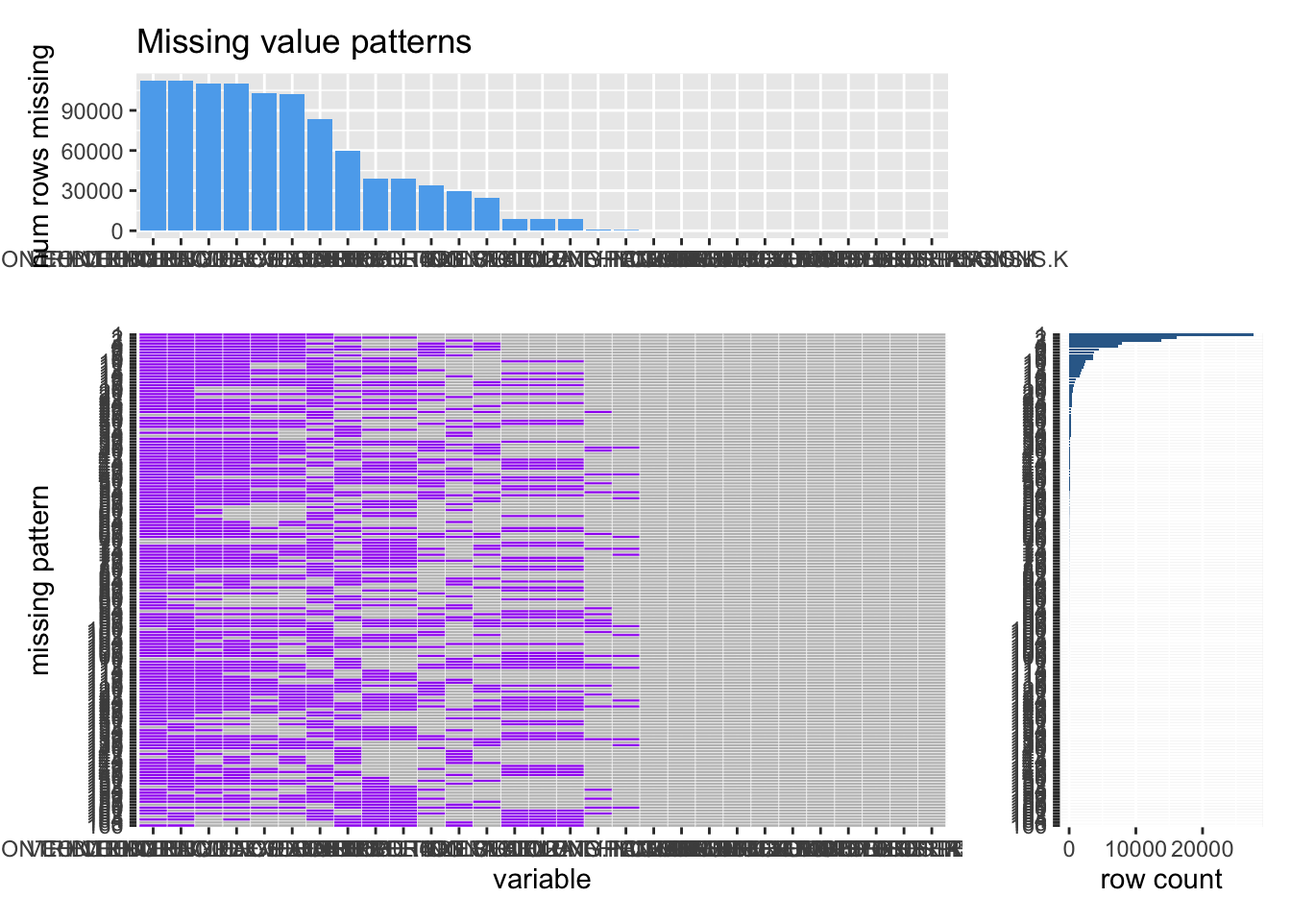
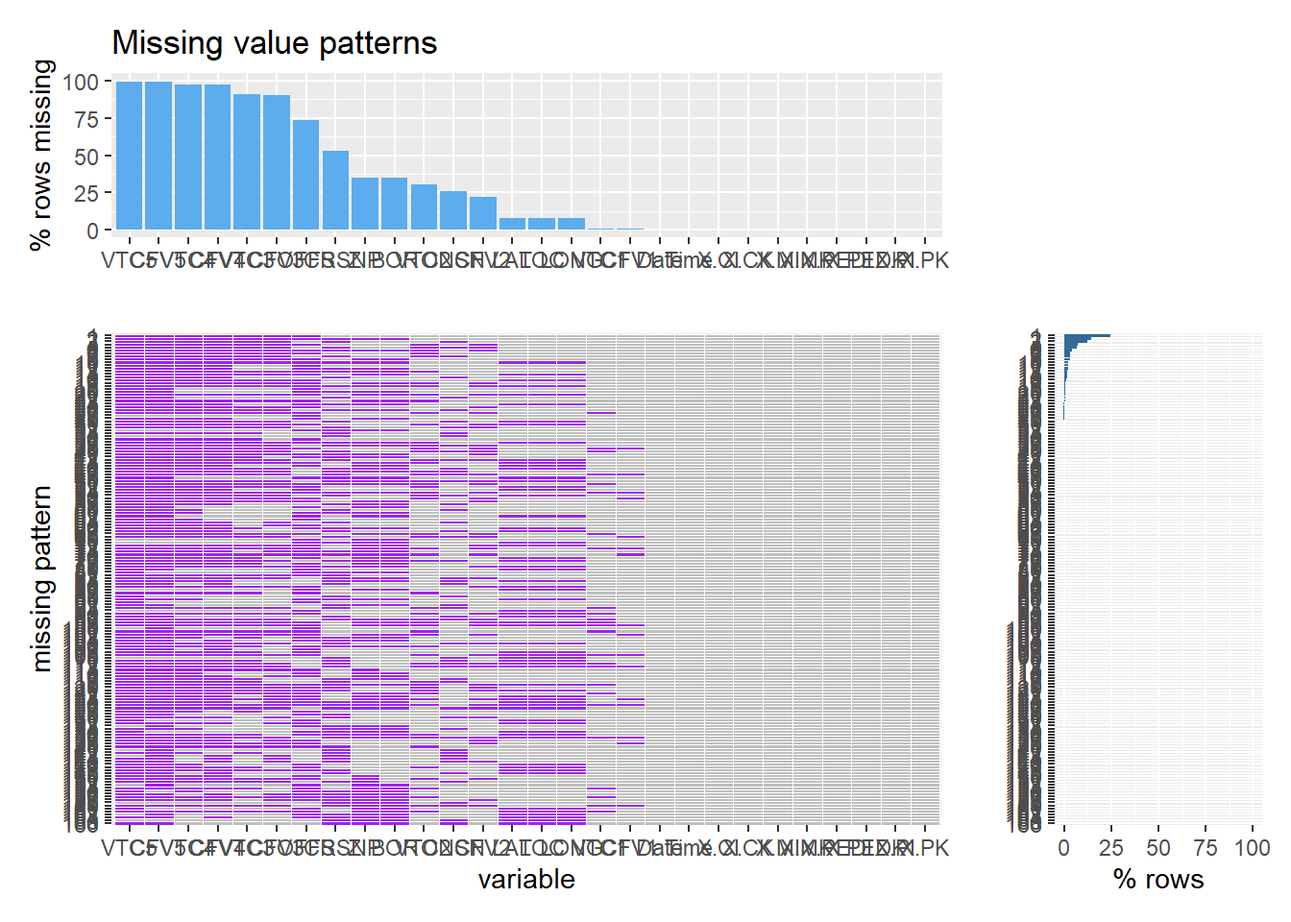
missing value chapter and bookdown update

diff --git a/docs/missing-values.html b/docs/missing-values.html
@@ -24,7 +24,7 @@
 <meta name="author" content="Maxwell Zhou, Xin Ye, and Kiranmai Vasireddy" />
 
 
-<meta name="date" content="2021-11-18" />
+<meta name="date" content="2021-11-19" />
 
   <meta name="viewport" content="width=device-width, initial-scale=1" />
   <meta name="apple-mobile-web-app-capable" content="yes" />
@@ -33,7 +33,7 @@
   
 <link rel="prev" href="data-transformation.html"/>
 <link rel="next" href="results.html"/>
-<script src="libs/header-attrs-2.10/header-attrs.js"></script>
+<script src="libs/header-attrs-2.11/header-attrs.js"></script>
 <script src="libs/jquery-3.6.0/jquery-3.6.0.min.js"></script>
 <script src="https://cdn.jsdelivr.net/npm/fuse.js@6.4.6/dist/fuse.min.js"></script>
 <link href="libs/gitbook-2.6.7/css/style.css" rel="stylesheet" />
@@ -102,44 +102,60 @@
 <div id="missing-values" class="section level1" number="4">
 <h1><span class="header-section-number">Chapter 4</span> Missing values</h1>
 <p><img src="finalproj_files/figure-html/graph%201-1.png" width="672" /></p>
-<p>This is our missing values plot on the entire 2020 motor vehicle crashes dataset. We can see that our dataset contains many different columns (29 columns) and a plethora of missing values across the majority of the columns. Because we have so many columns and very many rows (112,890 rows), this leads to us having an extremely large amount of missing patterns that appear in our dataset. Because it is hard to see individual rows and columns in our missing data plot because of how great the number of different missing patterns are, the plot below shows the same missing patterns plot, but only including the most frequently appearing missing patterns and also removing the columns that do not have any missing values. This way, we can further examine the missing patterns that appear more commonly in our dataset.</p>
+<p>This is our missing values plot on the entire cleaned 2020 motor vehicle crashes data set. We can see that our dataset contains many different columns (29 columns) and a plethora of missing values across the majority of the columns. Because we have so many columns and rows (112,890 rows), this leads us to have an extremely large amount of missing patterns that appear in our dataset. As a result, it is very hard to see individual rows and columns in our missing data plot because of how great the number of different missing patterns are. The plot below shows the same missing patterns plot, but only including the most frequently appearing missing patterns and also removing the columns that do not have any missing values. This way, we can further examine the missing patterns that appear more commonly in our dataset.</p>
 <p><img src="finalproj_files/figure-html/graph%202-1.png" width="672" /></p>
-<p>Now that we have only selected the columns containing missing values (we already know that all of the columns removed have no missing values at all) and the missing patterns in our dataset that appear more frequently, we can observe many different patterns in the missing values of our dataset.</p>
-<pre><code>##    na_rows count
-## 1       17     5
-## 2       16    12
-## 3       15   849
-## 4       14   795
-## 5       13  3094
-## 6       12  6920
-## 7       11  4347
-## 8       10 25781
-## 9        9 15704
-## 10       8 20253
-## 11       7 28309
-## 12       6  2441
-## 13       5  2472
-## 14       4   748
-## 15       3   632
-## 16       2   232
-## 17       1   296</code></pre>
-<pre><code>## # A tibble: 30 × 2
-##    na_cols                        count
-##    &lt;chr&gt;                          &lt;int&gt;
-##  1 VEHICLE.TYPE.CODE.5           112065
-##  2 CONTRIBUTING.FACTOR.VEHICLE.5 112037
-##  3 VEHICLE.TYPE.CODE.4           110106
-##  4 CONTRIBUTING.FACTOR.VEHICLE.4 109980
-##  5 VEHICLE.TYPE.CODE.3           102794
-##  6 CONTRIBUTING.FACTOR.VEHICLE.3 102183
-##  7 OFF.STREET.NAME                83436
-##  8 CROSS.STREET.NAME              59616
-##  9 ZIP.CODE                       39229
-## 10 BOROUGH                        39221
-## # … with 20 more rows</code></pre>
-<p>We can see from these two tables that</p>
+<p>Now that we have only selected the columns containing missing values (we already know that all of the columns removed have no missing values at all) and the missing patterns in our dataset that appear more frequently, we can observe many different patterns in the missing values of our dataset. For example, we have currently selected the top 15 missing patterns because these are the missing patterns with over 1000 missing rows. We observe that the 4 features with the highest percentages of missing rows have all of the top 15 missing patterns.</p>
+<pre><code>##    number_of_features_missing count percentage_missing
+## 1                           7 28309        25.07662326
+## 2                          10 25781        22.83727522
+## 3                           8 20253        17.94047303
+## 4                           9 15704        13.91088670
+## 5                          12  6920         6.12986093
+## 6                          11  4347         3.85065108
+## 7                          13  3094         2.74072106
+## 8                           5  2472         2.18974223
+## 9                           6  2441         2.16228187
+## 10                         15   849         0.75205953
+## 11                         14   795         0.70422535
+## 12                          4   748         0.66259190
+## 13                          3   632         0.55983701
+## 14                          1   296         0.26220214
+## 15                          2   232         0.20550979
+## 16                         16    12         0.01062982
+## 17                         17     5         0.00442909</code></pre>
+<pre><code>##    feature_name num_of_missing percentage_missing
+## 1          VTC5         112065         99.2692001
+## 2          CFV5         112037         99.2443972
+## 3          VTC4         110106         97.5338825
+## 4          CFV4         109980         97.4222695
+## 5          VTC3         102794         91.0567809
+## 6          CFV3         102183         90.5155461
+## 7         OFFSN          83436         73.9091151
+## 8          CRSN          59616         52.8089290
+## 9           ZIP          39229         34.7497564
+## 10          BOR          39221         34.7426699
+## 11         VTC2          34120         30.2241120
+## 12         ONSN          29454         26.0908849
+## 13         CFV2          24618         21.8070688
+## 14          LAT           8921          7.9023829
+## 15         LONG           8921          7.9023829
+## 16          LOC           8921          7.9023829
+## 17         VTC1           1073          0.9504828
+## 18         CFV1            513          0.4544247
+## 19         Date              0          0.0000000
+## 20         Time              0          0.0000000
+## 21         X.PI              0          0.0000000
+## 22         X.PK              0          0.0000000
+## 23       X.PEDI              0          0.0000000
+## 24       X.PEDK              0          0.0000000
+## 25         X.CI              0          0.0000000
+## 26         X.CK              0          0.0000000
+## 27         X.MI              0          0.0000000
+## 28         X.MK              0          0.0000000</code></pre>
+<p>We can see from these two tables that various rows and columns have less and more missing values. For example, we can see that the vehicle type codes and contributing factor vehicles 3-5 have the most rows missing for those columns because many accidents recorded are between 2 cars or 1 car. For the rows, we can see that the majority of rows have between 7 - 10 columns of missing values per row. Fewer rows have very little or very many missing values.</p>
 <p><img src="finalproj_files/figure-html/graph%203-1.png" width="672" /></p>
-<p>In this missing values plot, we can observe the relationship between the missingness of certain rows and the type of the column that the data is missing from. For example, we can see that most of the integer columns have no missing values, except for the zip code column, in which much of those are missing. We can also see missing patterns among the rows as well. For example, we can see that most of the integer columns have no missing values, except for the zip code column, in which much of those are missing. We can also see missing patterns among the rows as well. For example, all rows that have latitude, longitude, or location missing also have the other two variables missing.</p>
+<p>In this missing values plot, we can observe the relationship between the missingness of certain rows and the type of the column that the data is missing from. For example, we can see that most of the integer columns have no missing values, except for the zip code column, in which much of those are missing. We can also see missing patterns among the rows as well. For example, we can see that most of the integer columns have no missing values, except for the zip code column, in which much of those are missing. We can also see missing patterns among the rows as well.</p>
+<p>Besides, all rows that have either latitude, longitude, or location missing also have the other two variables missing, which means those rows are able to be not geographically visualized on a map. However, it seems that the majority of the crashes have the geographic features that suggesting we can later visualize these crashes on the map.</p>
 
 </div>
             </section>

diff --git a/docs/data-transformation.html b/docs/data-transformation.html
@@ -24,7 +24,7 @@
 <meta name="author" content="Maxwell Zhou, Xin Ye, and Kiranmai Vasireddy" />
 
 
-<meta name="date" content="2021-11-18" />
+<meta name="date" content="2021-11-19" />
 
   <meta name="viewport" content="width=device-width, initial-scale=1" />
   <meta name="apple-mobile-web-app-capable" content="yes" />
@@ -33,7 +33,7 @@
   
 <link rel="prev" href="data-sources.html"/>
 <link rel="next" href="missing-values.html"/>
-<script src="libs/header-attrs-2.10/header-attrs.js"></script>
+<script src="libs/header-attrs-2.11/header-attrs.js"></script>
 <script src="libs/jquery-3.6.0/jquery-3.6.0.min.js"></script>
 <script src="https://cdn.jsdelivr.net/npm/fuse.js@6.4.6/dist/fuse.min.js"></script>
 <link href="libs/gitbook-2.6.7/css/style.css" rel="stylesheet" />
@@ -101,6 +101,76 @@
             <section class="normal" id="section-">
 <div id="data-transformation" class="section level1" number="3">
 <h1><span class="header-section-number">Chapter 3</span> Data transformation</h1>
+<pre><code>## Number of Rows: 1829491</code></pre>
+<pre><code>## Number of Columns: 29</code></pre>
+<pre><code>## # A tibble: 5 x 29
+##   `CRASH DATE` `CRASH TIME` BOROUGH  `ZIP CODE` LATITUDE LONGITUDE LOCATION     
+##   &lt;chr&gt;        &lt;time&gt;       &lt;chr&gt;         &lt;dbl&gt;    &lt;dbl&gt;     &lt;dbl&gt; &lt;chr&gt;        
+## 1 04/14/2021   05:32        &lt;NA&gt;             NA     NA        NA   &lt;NA&gt;         
+## 2 04/13/2021   21:35        BROOKLYN      11217     40.7     -74.0 (40.68358, -~
+## 3 04/15/2021   16:15        &lt;NA&gt;             NA     NA        NA   &lt;NA&gt;         
+## 4 04/13/2021   16:00        BROOKLYN      11222     NA        NA   &lt;NA&gt;         
+## 5 04/12/2021   08:25        &lt;NA&gt;             NA      0         0   (0.0, 0.0)   
+## # ... with 22 more variables: ON STREET NAME &lt;chr&gt;, CROSS STREET NAME &lt;chr&gt;,
+## #   OFF STREET NAME &lt;chr&gt;, NUMBER OF PERSONS INJURED &lt;dbl&gt;,
+## #   NUMBER OF PERSONS KILLED &lt;dbl&gt;, NUMBER OF PEDESTRIANS INJURED &lt;dbl&gt;,
+## #   NUMBER OF PEDESTRIANS KILLED &lt;dbl&gt;, NUMBER OF CYCLIST INJURED &lt;dbl&gt;,
+## #   NUMBER OF CYCLIST KILLED &lt;dbl&gt;, NUMBER OF MOTORIST INJURED &lt;dbl&gt;,
+## #   NUMBER OF MOTORIST KILLED &lt;dbl&gt;, CONTRIBUTING FACTOR VEHICLE 1 &lt;chr&gt;,
+## #   CONTRIBUTING FACTOR VEHICLE 2 &lt;chr&gt;, ...</code></pre>
+<pre><code>## Number of Rows: 112890</code></pre>
+<pre><code>## Number of Columns: 29</code></pre>
+<pre><code>##                    CRASH DATE                    CRASH TIME 
+##                        &quot;CRAD&quot;                        &quot;CRAT&quot; 
+##                       BOROUGH                      ZIP CODE 
+##                        &quot;BORO&quot;                        &quot;ZIPC&quot; 
+##                      LATITUDE                     LONGITUDE 
+##                        &quot;LATI&quot;                        &quot;LONG&quot; 
+##                      LOCATION                ON STREET NAME 
+##                        &quot;LOCA&quot;                        &quot;ONSN&quot; 
+##             CROSS STREET NAME               OFF STREET NAME 
+##                        &quot;CRSN&quot;                        &quot;OFSN&quot; 
+##     NUMBER OF PERSONS INJURED      NUMBER OF PERSONS KILLED 
+##                &quot;NUMBEROFPERI&quot;                &quot;NUMBEROFPERK&quot; 
+## NUMBER OF PEDESTRIANS INJURED  NUMBER OF PEDESTRIANS KILLED 
+##                &quot;NUMBEROFPEDI&quot;                &quot;NUMBEROFPEDK&quot; 
+##     NUMBER OF CYCLIST INJURED      NUMBER OF CYCLIST KILLED 
+##                        &quot;NOCI&quot;                        &quot;NOCK&quot; 
+##    NUMBER OF MOTORIST INJURED     NUMBER OF MOTORIST KILLED 
+##                        &quot;NOMI&quot;                        &quot;NOMK&quot; 
+## CONTRIBUTING FACTOR VEHICLE 1 CONTRIBUTING FACTOR VEHICLE 2 
+##                        &quot;CFV1&quot;                        &quot;CFV2&quot; 
+## CONTRIBUTING FACTOR VEHICLE 3 CONTRIBUTING FACTOR VEHICLE 4 
+##                        &quot;CFV3&quot;                        &quot;CFV4&quot; 
+## CONTRIBUTING FACTOR VEHICLE 5                  COLLISION_ID 
+##                        &quot;CFV5&quot;                        &quot;COLL&quot; 
+##           VEHICLE TYPE CODE 1           VEHICLE TYPE CODE 2 
+##                        &quot;VTC1&quot;                        &quot;VTC2&quot; 
+##           VEHICLE TYPE CODE 3           VEHICLE TYPE CODE 4 
+##                        &quot;VTC3&quot;                        &quot;VTC4&quot; 
+##           VEHICLE TYPE CODE 5 
+##                        &quot;VTC5&quot;</code></pre>
+<pre><code>##  [1] &quot;Date&quot;  &quot;Time&quot;  &quot;BOR&quot;   &quot;ZIP&quot;   &quot;LAT&quot;   &quot;LONG&quot;  &quot;LOC&quot;   &quot;ONSN&quot;  &quot;CRSN&quot; 
+## [10] &quot;OFFSN&quot; &quot;#PI&quot;   &quot;#PK&quot;   &quot;#PEDI&quot; &quot;#PEDK&quot; &quot;#CI&quot;   &quot;#CK&quot;   &quot;#MI&quot;   &quot;#MK&quot;  
+## [19] &quot;CFV1&quot;  &quot;CFV2&quot;  &quot;CFV3&quot;  &quot;CFV4&quot;  &quot;CFV5&quot;  &quot;id&quot;    &quot;VTC1&quot;  &quot;VTC2&quot;  &quot;VTC3&quot; 
+## [28] &quot;VTC4&quot;  &quot;VTC5&quot;</code></pre>
+<pre><code>## # A tibble: 112,890 x 32
+##    Date       Time   BOR     ZIP   LAT  LONG LOC   ONSN  CRSN  OFFSN `#PI` `#PK`
+##    &lt;date&gt;     &lt;time&gt; &lt;chr&gt; &lt;dbl&gt; &lt;dbl&gt; &lt;dbl&gt; &lt;chr&gt; &lt;chr&gt; &lt;chr&gt; &lt;chr&gt; &lt;dbl&gt; &lt;dbl&gt;
+##  1 2020-01-21 15:49  &lt;NA&gt;     NA  NA    NA   &lt;NA&gt;  BRUC~ &quot;\u0~ &lt;NA&gt;      0     0
+##  2 2020-12-31 16:30  &lt;NA&gt;     NA  NA    NA   &lt;NA&gt;  BELT~  &lt;NA&gt; &lt;NA&gt;      0     0
+##  3 2020-12-25 20:19  &lt;NA&gt;     NA  NA    NA   &lt;NA&gt;  BRON~  &lt;NA&gt; &lt;NA&gt;      0     0
+##  4 2020-04-15 15:20  &lt;NA&gt;     NA  40.7 -74.0 (40.~ GOWA~  &lt;NA&gt; &lt;NA&gt;      0     0
+##  5 2020-10-25 02:00  &lt;NA&gt;     NA  NA    NA   &lt;NA&gt;  BELT~  &lt;NA&gt; &lt;NA&gt;      0     0
+##  6 2020-11-11 16:33  &lt;NA&gt;     NA  NA    NA   &lt;NA&gt;  TRIB~  &lt;NA&gt; &lt;NA&gt;      0     0
+##  7 2020-04-17 01:50  MANH~ 10019  40.8 -74.0 (40.~ 11 A~ &quot;WES~ &lt;NA&gt;      1     0
+##  8 2020-12-18 07:00  &lt;NA&gt;     NA  NA    NA   &lt;NA&gt;  HORA~ &quot;EAS~ &lt;NA&gt;      0     0
+##  9 2020-09-06 18:05  &lt;NA&gt;     NA  40.8 -73.8 (40.~ WHIT~  &lt;NA&gt; &lt;NA&gt;      0     1
+## 10 2020-12-13 18:35  &lt;NA&gt;     NA  NA    NA   &lt;NA&gt;  12 A~  &lt;NA&gt; &lt;NA&gt;      0     0
+## # ... with 112,880 more rows, and 20 more variables: #PEDI &lt;dbl&gt;, #PEDK &lt;dbl&gt;,
+## #   #CI &lt;dbl&gt;, #CK &lt;dbl&gt;, #MI &lt;dbl&gt;, #MK &lt;dbl&gt;, CFV1 &lt;chr&gt;, CFV2 &lt;chr&gt;,
+## #   CFV3 &lt;chr&gt;, CFV4 &lt;chr&gt;, CFV5 &lt;chr&gt;, id &lt;dbl&gt;, VTC1 &lt;chr&gt;, VTC2 &lt;chr&gt;,
+## #   VTC3 &lt;chr&gt;, VTC4 &lt;chr&gt;, VTC5 &lt;chr&gt;, Day &lt;chr&gt;, Month &lt;chr&gt;, Year &lt;chr&gt;</code></pre>
 
 </div>
             </section>

diff --git a/docs/data-sources.html b/docs/data-sources.html
@@ -24,7 +24,7 @@
 <meta name="author" content="Maxwell Zhou, Xin Ye, and Kiranmai Vasireddy" />
 
 
-<meta name="date" content="2021-11-18" />
+<meta name="date" content="2021-11-19" />
 
   <meta name="viewport" content="width=device-width, initial-scale=1" />
   <meta name="apple-mobile-web-app-capable" content="yes" />
@@ -33,7 +33,7 @@
   
 <link rel="prev" href="index.html"/>
 <link rel="next" href="data-transformation.html"/>
-<script src="libs/header-attrs-2.10/header-attrs.js"></script>
+<script src="libs/header-attrs-2.11/header-attrs.js"></script>
 <script src="libs/jquery-3.6.0/jquery-3.6.0.min.js"></script>
 <script src="https://cdn.jsdelivr.net/npm/fuse.js@6.4.6/dist/fuse.min.js"></script>
 <link href="libs/gitbook-2.6.7/css/style.css" rel="stylesheet" />
@@ -101,6 +101,41 @@
             <section class="normal" id="section-">
 <div id="data-sources" class="section level1" number="2">
 <h1><span class="header-section-number">Chapter 2</span> Data sources</h1>
+<p>I. Introduction
+A motor vehicle accident can have a large number of factors that lead to it. A collection of a series of such accidents and understanding the pattern (if any) with respect to the location of the accident, the time at which the accident has taken place and other contributing factors like which vehicle has collided with the motor vehicle that led to the accident can help us understand the correlation between these factors and the accident. This information can be of great insight to both the common people and the police officers, if perceived in the right way. Firstly, it helps the common man by giving a caveat to be more cautious while driving around the accident prone area at a particular point of time. Secondly, it would help police officers in two ways - to keep and check on safety of the people, by monitoring the contributing factors of the accident in the accident prone locations at a particular time and also, to manage their manpower well, more police officers can be put to work at accident prone areas compared to the other areas. This is driving factor behind the project that we aim to work on, to study the pattern of motor vehicle accidents that take place in New York City to help understand and organise resources to reduce accidents</p>
+<p>With this study, we try to answer the following questions:
+1. Is the number of people injured or killed by motor vehicle accidents impacted by the time and day at which the accident has occurred.
+2. Are there any underlying contributing reasons that are resulting in more accidents?
+3. Does the severity of the accident have a correlation with the location at which it has taken place? For instance, do accidents in Manhattan have a higher death ratio compared to accidents in the Bronx?
+4. Is there any pattern of the vehicles that hit the motor vehicles? For instance, do they get hit by sedans more than trucks?</p>
+<p>Analysis of the dataset to answer these questions would give us a better insight about how the common man can be more careful to avoid accidents and also to the police in ensuring our safety.</p>
+<ol start="2" style="list-style-type: upper-roman">
+<li>Data sources
+The dataset chosen for this study is taken from the NYC Open Data. It is owned by NYC Open Data and is provided by the New York Police Department(NYPD). The dataset is a table where each row of the table represents a crash event. It contains the information from all the police reported motor vehicle collisions in NYC. In cases where someone is injured or killed, or a damage worth $1000 a police report is required - MV104-AN. The dataset is subjected to change where there is any update in the police report (MV104-AN) with the revised crash details. It was created in April, 2014 and is a large dataset with 1.84Million entries and 29 columns.</li>
+</ol>
+<p>Why and how is it collected?
+The police department implemented TrafficStat using the CompStats model to work towards the safety of people and to maintain uniformity in which data related to motor vehicles is collected. Initially, they used a TAMS- Traffic Management Systems to collect traffic data using a few details around the collision, but later on when they decided to work towards the Vision Zero- to ensure zero fatalities, the MV-104AN form was filled in a much more detailed manner for all the vehicle collisions that occured. The TAMS model was eliminated and FORMS - Finest Online Records Management System was introduced in 2016 to store data electronically. The policemen use a department cellphone or computer to enter all the MV-104AN data fields which are stored in the Department crime data warehouse. This ensures that the entire MV-104AN form with all the details is stored securely, which can be used to do a detailed traffic safety analysis to work towards the Vision Zero goal.</p>
+<p>The data we would work on:
+Since the dataset is enormous, we have decided to work on a complete year of data, starting from 1, January 2020 to 31, December 2020. This data contains ______ entries. Studying the recent year of data gives a clear understanding of the latest trends in the collisions, given the growth of traffic every year.</p>
+<p>Problems/Issues:
+A few of the fields in the Dataset are missing which are being imputed/eliminated based on the type of question we plan to answer.</p>
+<p>A brief overview of the dataset:
+Dataset contains 29 attributes, a brief overview of all these are described below:</p>
+<p>Column Name Description
+Crash Date Date of collision
+Crash Time Time of collision
+Borough Place of collision
+Zip Code Postal code where the collision occurred
+Latitude Latitude on Coordinate System
+Longitude Longitude on Global Coordinate System
+On Street Name Street on which collision occurred
+Cross Street Name Nearest cross Street where collision occurred.
+Off Street name Street Address
+Number of people,pedestrians, cyclist, motorist injured Details on the number of people injured in each category
+Number of people,pedestrians, cyclist, motorist killed Details on the number of people killed in each category
+Contributing factors vehicle 1,2,3,4,5 Factors which contribute to the collision
+Collision ID Unique Record code generated by system
+Vehicle Type Code 1,2,3,4,5 Type of vehicle</p>
 
 </div>
             </section>

diff --git a/docs/index.html b/docs/index.html
@@ -24,7 +24,7 @@
 <meta name="author" content="Maxwell Zhou, Xin Ye, and Kiranmai Vasireddy" />
 
 
-<meta name="date" content="2021-11-18" />
+<meta name="date" content="2021-11-19" />
 
   <meta name="viewport" content="width=device-width, initial-scale=1" />
   <meta name="apple-mobile-web-app-capable" content="yes" />
@@ -33,7 +33,7 @@
   
 
 <link rel="next" href="data-sources.html"/>
-<script src="libs/header-attrs-2.10/header-attrs.js"></script>
+<script src="libs/header-attrs-2.11/header-attrs.js"></script>
 <script src="libs/jquery-3.6.0/jquery-3.6.0.min.js"></script>
 <script src="https://cdn.jsdelivr.net/npm/fuse.js@6.4.6/dist/fuse.min.js"></script>
 <link href="libs/gitbook-2.6.7/css/style.css" rel="stylesheet" />
@@ -102,7 +102,7 @@
 <div id="header">
 <h1 class="title">NYC Motor Vehicle Crashes Analysis</h1>
 <p class="author"><em>Maxwell Zhou, Xin Ye, and Kiranmai Vasireddy</em></p>
-<p class="date"><em>2021-11-18</em></p>
+<p class="date"><em>2021-11-19</em></p>
 </div>
 <div id="introduction" class="section level1" number="1">
 <h1><span class="header-section-number">Chapter 1</span> Introduction</h1>

diff --git a/docs/results.html b/docs/results.html
@@ -24,7 +24,7 @@
 <meta name="author" content="Maxwell Zhou, Xin Ye, and Kiranmai Vasireddy" />
 
 
-<meta name="date" content="2021-11-18" />
+<meta name="date" content="2021-11-19" />
 
   <meta name="viewport" content="width=device-width, initial-scale=1" />
   <meta name="apple-mobile-web-app-capable" content="yes" />
@@ -33,7 +33,7 @@
   
 <link rel="prev" href="missing-values.html"/>
 <link rel="next" href="interactive-component.html"/>
-<script src="libs/header-attrs-2.10/header-attrs.js"></script>
+<script src="libs/header-attrs-2.11/header-attrs.js"></script>
 <script src="libs/jquery-3.6.0/jquery-3.6.0.min.js"></script>
 <script src="https://cdn.jsdelivr.net/npm/fuse.js@6.4.6/dist/fuse.min.js"></script>
 <link href="libs/gitbook-2.6.7/css/style.css" rel="stylesheet" />

diff --git a/docs/interactive-component.html b/docs/interactive-component.html
@@ -24,7 +24,7 @@
 <meta name="author" content="Maxwell Zhou, Xin Ye, and Kiranmai Vasireddy" />
 
 
-<meta name="date" content="2021-11-18" />
+<meta name="date" content="2021-11-19" />
 
   <meta name="viewport" content="width=device-width, initial-scale=1" />
   <meta name="apple-mobile-web-app-capable" content="yes" />
@@ -33,7 +33,7 @@
   
 <link rel="prev" href="results.html"/>
 <link rel="next" href="conclusion.html"/>
-<script src="libs/header-attrs-2.10/header-attrs.js"></script>
+<script src="libs/header-attrs-2.11/header-attrs.js"></script>
 <script src="libs/jquery-3.6.0/jquery-3.6.0.min.js"></script>
 <script src="https://cdn.jsdelivr.net/npm/fuse.js@6.4.6/dist/fuse.min.js"></script>
 <link href="libs/gitbook-2.6.7/css/style.css" rel="stylesheet" />

diff --git a/docs/conclusion.html b/docs/conclusion.html
@@ -24,7 +24,7 @@
 <meta name="author" content="Maxwell Zhou, Xin Ye, and Kiranmai Vasireddy" />
 
 
-<meta name="date" content="2021-11-18" />
+<meta name="date" content="2021-11-19" />
 
   <meta name="viewport" content="width=device-width, initial-scale=1" />
   <meta name="apple-mobile-web-app-capable" content="yes" />
@@ -33,7 +33,7 @@
   
 <link rel="prev" href="interactive-component.html"/>
 
-<script src="libs/header-attrs-2.10/header-attrs.js"></script>
+<script src="libs/header-attrs-2.11/header-attrs.js"></script>
 <script src="libs/jquery-3.6.0/jquery-3.6.0.min.js"></script>
 <script src="https://cdn.jsdelivr.net/npm/fuse.js@6.4.6/dist/fuse.min.js"></script>
 <link href="libs/gitbook-2.6.7/css/style.css" rel="stylesheet" />

diff --git a/docs/404.html b/docs/404.html
@@ -24,7 +24,7 @@
 <meta name="author" content="Maxwell Zhou, Xin Ye, and Kiranmai Vasireddy" />
 
 
-<meta name="date" content="2021-11-18" />
+<meta name="date" content="2021-11-19" />
 
   <meta name="viewport" content="width=device-width, initial-scale=1" />
   <meta name="apple-mobile-web-app-capable" content="yes" />
@@ -33,7 +33,7 @@
   
 
 
-<script src="libs/header-attrs-2.10/header-attrs.js"></script>
+<script src="libs/header-attrs-2.11/header-attrs.js"></script>
 <script src="libs/jquery-3.6.0/jquery-3.6.0.min.js"></script>
 <script src="https://cdn.jsdelivr.net/npm/fuse.js@6.4.6/dist/fuse.min.js"></script>
 <link href="libs/gitbook-2.6.7/css/style.css" rel="stylesheet" />

diff --git a/docs/libs/header-attrs-2.11/header-attrs.js b/docs/libs/header-attrs-2.11/header-attrs.js
@@ -1,0 +1,12 @@
+// Pandoc 2.9 adds attributes on both header and div. We remove the former (to
+// be compatible with the behavior of Pandoc < 2.8).
+document.addEventListener('DOMContentLoaded', function(e) {
+  var hs = document.querySelectorAll("div.section[class*='level'] > :first-child");
+  var i, h, a;
+  for (i = 0; i < hs.length; i++) {
+    h = hs[i];
+    if (!/^h[1-6]$/i.test(h.tagName)) continue;  // it should be a header h1-h6
+    a = h.attributes;
+    while (a.length > 0) h.removeAttribute(a[0].name);
+  }
+});
